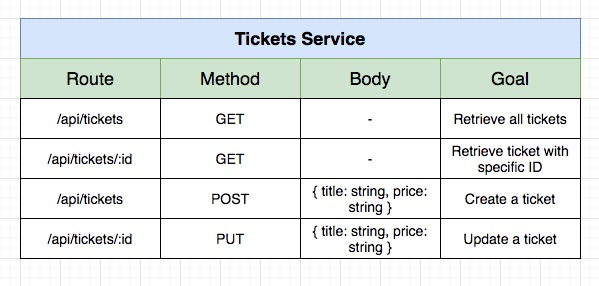
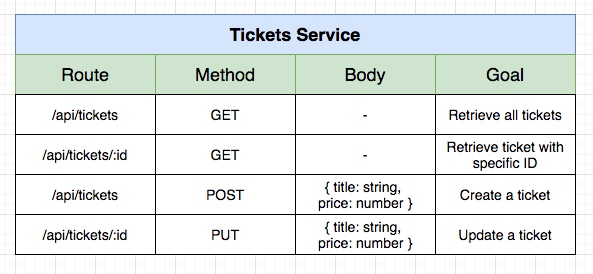
260. Final Update Changes

diff --git a/section-13/ticketing/tickets/src/routes/__test__/update.test.ts b/section-13/ticketing/tickets/src/routes/__test__/update.test.ts
@@ -44,6 +44,60 @@ it('returns a 401 if the user does not own the ticket', async () => {
     .expect(401);
 });
 
-it('returns a 400 if the user provides an invalid title or price', async () => {});
+it('returns a 400 if the user provides an invalid title or price', async () => {
+  const cookie = global.signin();
 
-it('updates the ticket provided valid inputs', async () => {});
+  const response = await request(app)
+    .post('/api/tickets')
+    .set('Cookie', cookie)
+    .send({
+      title: 'asldkfj',
+      price: 20,
+    });
+
+  await request(app)
+    .put(`/api/tickets/${response.body.id}`)
+    .set('Cookie', cookie)
+    .send({
+      title: '',
+      price: 20,
+    })
+    .expect(400);
+
+  await request(app)
+    .put(`/api/tickets/${response.body.id}`)
+    .set('Cookie', cookie)
+    .send({
+      title: 'alskdfjj',
+      price: -10,
+    })
+    .expect(400);
+});
+
+it('updates the ticket provided valid inputs', async () => {
+  const cookie = global.signin();
+
+  const response = await request(app)
+    .post('/api/tickets')
+    .set('Cookie', cookie)
+    .send({
+      title: 'asldkfj',
+      price: 20,
+    });
+
+  await request(app)
+    .put(`/api/tickets/${response.body.id}`)
+    .set('Cookie', cookie)
+    .send({
+      title: 'new title',
+      price: 100,
+    })
+    .expect(200);
+
+  const ticketResponse = await request(app)
+    .get(`/api/tickets/${response.body.id}`)
+    .send();
+
+  expect(ticketResponse.body.title).toEqual('new title');
+  expect(ticketResponse.body.price).toEqual(100);
+});

diff --git a/section-13/ticketing/tickets/src/routes/update.ts b/section-13/ticketing/tickets/src/routes/update.ts
@@ -13,6 +13,11 @@ const router = express.Router();
 router.put(
   '/api/tickets/:id',
   requireAuth,
+  [
+    body('title').not().isEmpty().withMessage('Title is required'),
+    body('price').isFloat({ gt: 0 }).withMessage('Price must be provided and must be greater than 0'),
+  ],
+  validateRequest,
   async (req: Request, res: Response) => {
     const ticket = await Ticket.findById(req.params.id);
 
@@ -23,6 +28,12 @@ router.put(
     if (ticket.userId !== req.currentUser!.id) {
       throw new NotAuthorizedError();
     }
+
+    ticket.set({
+      title: req.body.title,
+      price: req.body.price
+    })
+    await ticket.save();
 
     res.send(ticket);
   }

diff --git a/section-13.md b/section-13.md
@@ -737,6 +737,112 @@ const payload = {
 **[⬆ back to top](#table-of-contents)**
 
 ### Final Update Changes
+
+```typescript
+it('returns a 400 if the user provides an invalid title or price', async () => {
+  const cookie = global.signin();
+
+  const response = await request(app)
+    .post('/api/tickets')
+    .set('Cookie', cookie)
+    .send({
+      title: 'asldkfj',
+      price: 20,
+    });
+
+  await request(app)
+    .put(`/api/tickets/${response.body.id}`)
+    .set('Cookie', cookie)
+    .send({
+      title: '',
+      price: 20,
+    })
+    .expect(400);
+
+  await request(app)
+    .put(`/api/tickets/${response.body.id}`)
+    .set('Cookie', cookie)
+    .send({
+      title: 'alskdfjj',
+      price: -10,
+    })
+    .expect(400);
+});
+
+it('updates the ticket provided valid inputs', async () => {
+  const cookie = global.signin();
+
+  const response = await request(app)
+    .post('/api/tickets')
+    .set('Cookie', cookie)
+    .send({
+      title: 'asldkfj',
+      price: 20,
+    });
+
+  await request(app)
+    .put(`/api/tickets/${response.body.id}`)
+    .set('Cookie', cookie)
+    .send({
+      title: 'new title',
+      price: 100,
+    })
+    .expect(200);
+
+  const ticketResponse = await request(app)
+    .get(`/api/tickets/${response.body.id}`)
+    .send();
+
+  expect(ticketResponse.body.title).toEqual('new title');
+  expect(ticketResponse.body.price).toEqual(100);
+});
+```
+
+```typescript
+import express, { Request, Response } from 'express';
+import { body } from 'express-validator';
+import {
+  validateRequest,
+  NotFoundError,
+  requireAuth,
+  NotAuthorizedError,
+} from '@chticketing/common';
+import { Ticket } from '../models/ticket';
+
+const router = express.Router();
+
+router.put(
+  '/api/tickets/:id',
+  requireAuth,
+  [
+    body('title').not().isEmpty().withMessage('Title is required'),
+    body('price').isFloat({ gt: 0 }).withMessage('Price must be provided and must be greater than 0'),
+  ],
+  validateRequest,
+  async (req: Request, res: Response) => {
+    const ticket = await Ticket.findById(req.params.id);
+
+    if (!ticket) {
+      throw new NotFoundError();
+    }
+
+    if (ticket.userId !== req.currentUser!.id) {
+      throw new NotAuthorizedError();
+    }
+
+    ticket.set({
+      title: req.body.title,
+      price: req.body.price
+    })
+    await ticket.save();
+
+    res.send(ticket);
+  }
+);
+
+export { router as updateTicketRouter };
+```
+
 **[⬆ back to top](#table-of-contents)**
 
 ### Manual Testing
